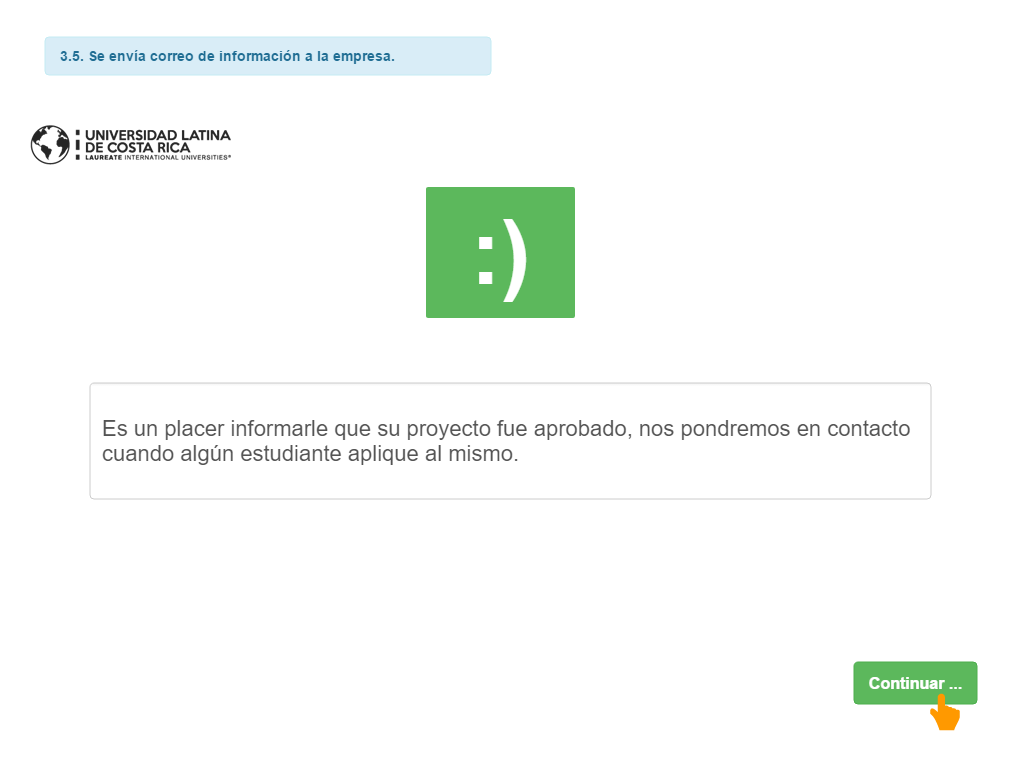
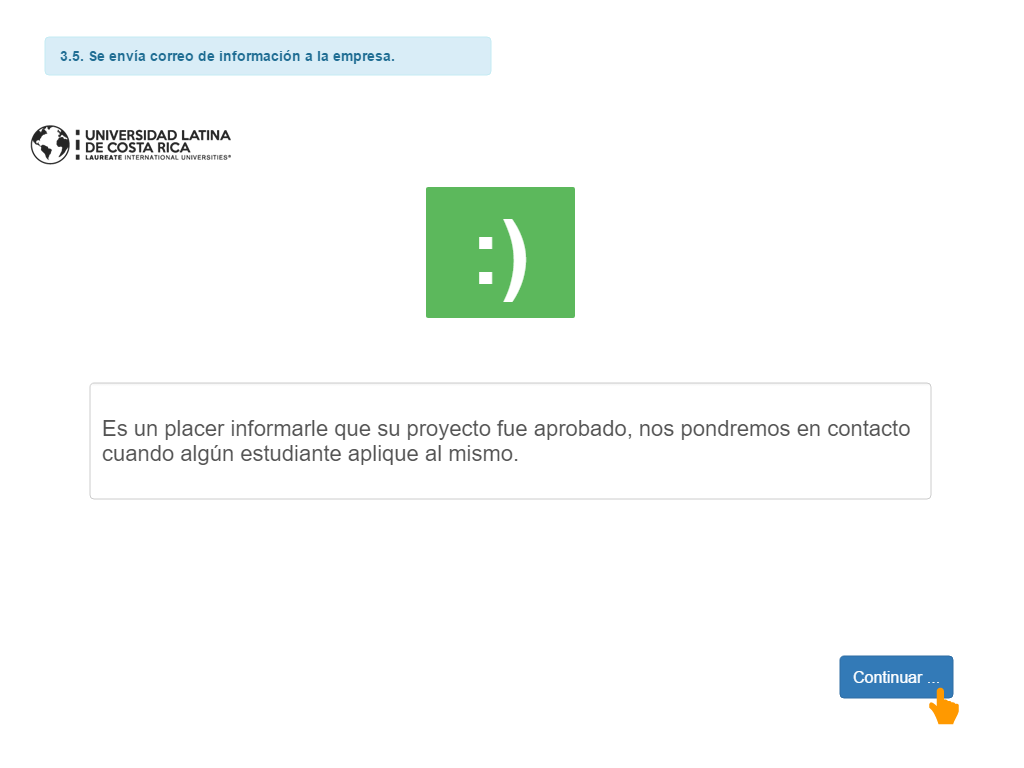
v1.5
Versión Final - R.1

Changed region(s): [[0.8125, 0.8438, 0.9688, 0.9688]]

diff --git a/index.html b/index.html
@@ -33,8 +33,8 @@
         <h2>1.B. Correo de activación</h2>
         <div class="ImageContainer"><img src="pages\1b_correo_de_activacin.png" width="1024" height="768"
                 usemap="#map_1b_correo_de_activacin" /></div><map name="map_1b_correo_de_activacin"><area shape="rect"
-                coords="403,354,557,418" href="#2_creacin_de_proyectos_page"
-                title="Go to page '2. Creación de proyectos'" /></map>
+                coords="403,354,557,418" href="#1c_activacin_completada_page"
+                title="Go to page '1.C. Activación completada'" /></map>
     </div>
     <div class="Page" id="1c_activacin_completada_page">
         <h2>1.C. Activación completada</h2>
@@ -48,8 +48,8 @@
         <h2>2. Creación de proyectos</h2>
         <div class="ImageContainer"><img src="pages\2_creacin_de_proyectos.png" width="1024" height="768"
                 usemap="#map_2_creacin_de_proyectos" /></div><map name="map_2_creacin_de_proyectos"><area shape="rect"
-                coords="678,500,774,548" href="#3_autorizacin_de_proyectos_page"
-                title="Go to page '3. Autorización de proyectos'" /></map>
+                coords="678,500,774,548" href="#2a_crear_proyecto_nuevo_page"
+                title="Go to page '2.A. Crear proyecto nuevo'" /></map>
     </div>
     <div class="Page" id="2a_crear_proyecto_nuevo_page">
         <h2>2.A. Crear proyecto nuevo</h2>
@@ -62,8 +62,9 @@
         <h2>2.B. Registrar Proyecto</h2>
         <div class="ImageContainer"><img src="pages\2b_registrar_proyecto.png" width="1024" height="768"
                 usemap="#map_2b_registrar_proyecto" /></div><map name="map_2b_registrar_proyecto"><area shape="rect"
-                coords="453,599,516,637" href="#3a_ver_proyectos_page" title="Go to page '3.A. Ver proyectos'" /><area
-                shape="rect" coords="11,92,1012.00006103516,674.000061035156" href="#3_autorizacin_de_proyectos_page"
+                coords="453,599,516,637" href="#3_autorizacin_de_proyectos_page"
+                title="Go to page '3. Autorización de proyectos'" /><area shape="rect"
+                coords="11,92,1012.00006103516,674.000061035156" href="#3_autorizacin_de_proyectos_page"
                 title="Go to page '3. Autorización de proyectos'" /></map>
     </div>
     <div class="Page" id="3_autorizacin_de_proyectos_page">
@@ -84,7 +85,7 @@
         <h2>3.B. Correo de notificación</h2>
         <div class="ImageContainer"><img src="pages\3b_correo_de_notificacin.png" width="1024" height="768"
                 usemap="#map_3b_correo_de_notificacin" /></div><map name="map_3b_correo_de_notificacin"><area
-                shape="rect" coords="854,662,977,704" href="#4_inscripcin_a_los_proyectos_page"
+                shape="rect" coords="840,656,953,698" href="#4_inscripcin_a_los_proyectos_page"
                 title="Go to page '4. Inscripción a los proyectos'" /></map>
     </div>
     <div class="Page" id="4_inscripcin_a_los_proyectos_page">
@@ -133,14 +134,14 @@
         <h2>6.A. Correo de confirmación final</h2>
         <div class="ImageContainer"><img src="pages\6a_correo_de_confirmacin_final.png" width="1024" height="768"
                 usemap="#map_6a_correo_de_confirmacin_final" /></div><map
-            name="map_6a_correo_de_confirmacin_final"><area shape="rect" coords="401,413,555,477"
+            name="map_6a_correo_de_confirmacin_final"><area shape="rect" coords="430,395,584,459"
                 href="#7_reportes_del_mdulo_page" title="Go to page '7. Reportes del módulo'" /></map>
     </div>
     <div class="Page" id="7_reportes_del_mdulo_page">
         <h2>7. Reportes del módulo</h2>
         <div class="ImageContainer"><img src="pages\7_reportes_del_mdulo.png" width="1024" height="768"
                 usemap="#map_7_reportes_del_mdulo" /></div><map name="map_7_reportes_del_mdulo"><area shape="rect"
-                coords="596,683,1001,749" href="#inicio_page" title="Go to page 'Inicio'" /></map>
+                coords="575,660,1001,730" href="#inicio_page" title="Go to page 'Inicio'" /></map>
     </div>
 </body>
 
